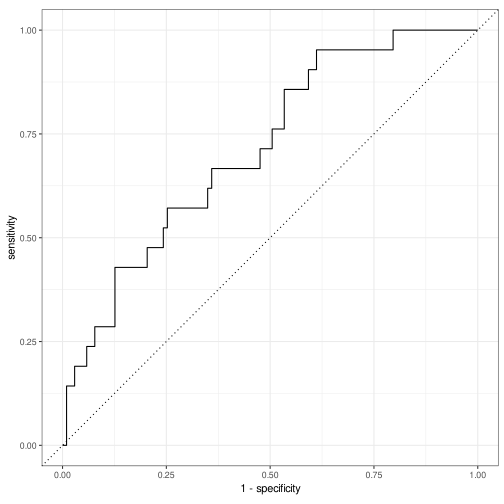
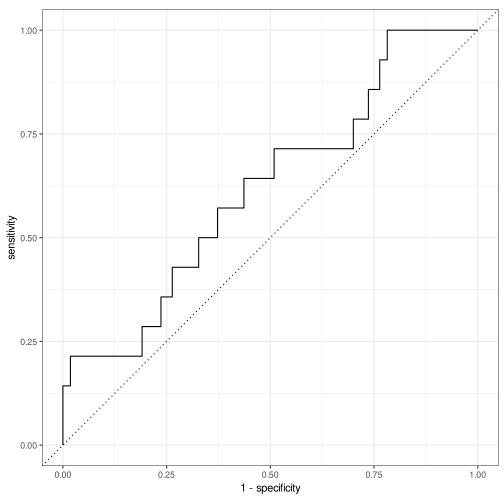
Random tree markdown updated, now includes variable importance
* added accuracy to the set of metrics
* made the rmd reproducible (set.seed)

diff --git a/random_forest.md b/random_forest.md
@@ -1,10 +1,3 @@
----
-title: Random forests
-author: Marc Härkönen
-output:
-  pdf_document:
-    latex_engine: xelatex
----
 # Random forests
 
 ## Data business
@@ -17,7 +10,9 @@ library(tidymodels)
 library(feather)
 library(magrittr)
 library(skimr)
+library(vip)
 per <- read_feather("data/simulation_data/all_persons.feather")
+set.seed(123)
 ```
 
 Compute some summary statistic for each client.
@@ -33,7 +28,7 @@ clients <-
     avg_qx = mean(qx),
     avg_age = mean(Age),
     per_male = sum(Sex == "Male") / size,
-    per_blue_collar = sum(collar == "Blue") / size,
+    per_blue_collar = sum(collar == "blue") / size,
     expected = sum(qx * FaceAmt),
     actual_2020 = sum(FaceAmt[year == 2020], na.rm = TRUE),
     ae_2020 = actual_2020 / expected,
@@ -157,7 +152,7 @@ Table: Data summary
 |avg_qx          |         0|             1|         0.00|         0.00|       0.00|         0.00|         0.00|         0.00| 0.000000e+00|▁▇▇▂▁ |
 |avg_age         |         0|             1|        41.56|         2.05|      37.68|        40.11|        41.11|        42.49| 4.865000e+01|▃▇▃▁▁ |
 |per_male        |         0|             1|         0.57|         0.10|       0.22|         0.50|         0.57|         0.64| 8.900000e-01|▁▃▇▅▁ |
-|per_blue_collar |         0|             1|         0.00|         0.00|       0.00|         0.00|         0.00|         0.00| 0.000000e+00|▁▁▇▁▁ |
+|per_blue_collar |         0|             1|         1.00|         0.00|       1.00|         1.00|         1.00|         1.00| 1.000000e+00|▁▁▇▁▁ |
 |expected        |         0|             1|   1075634.02|   1054075.28|   11604.50|    353219.92|    832197.99|   1436637.06| 1.189955e+07|▇▁▁▁▁ |
 |actual_2020     |         0|             1|  15378942.63|  44643400.61|       0.00|   1962875.00|   4556125.00|  13950250.00| 5.232112e+08|▇▁▁▁▁ |
 |nohs            |         0|             1|        11.16|         3.78|       0.00|         8.44|        10.78|        12.88| 2.165000e+01|▁▅▇▂▂ |
@@ -195,7 +190,7 @@ We use the ranger engine for our random forest. We could tune the paramters as w
 ranger_spec <-
   rand_forest(trees = 1000) %>%
   set_mode("classification") %>%
-  set_engine("ranger")
+  set_engine("ranger", num.threads = 8, importance = "impurity", seed = 123)
 ```
 
 Wrap the recipe and model into a workflow
@@ -222,8 +217,8 @@ clients_test %>% count(adverse)
 ## # A tibble: 2 x 2
 ##   adverse     n
 ##   <fct>   <int>
-## 1 FALSE      21
-## 2 TRUE      103
+## 1 FALSE      14
+## 2 TRUE      110
 ```
 
 ```r
@@ -235,8 +230,8 @@ clients_train %>% count(adverse)
 ## # A tibble: 2 x 2
 ##   adverse     n
 ##   <fct>   <int>
-## 1 FALSE      25
-## 2 TRUE      346
+## 1 FALSE      32
+## 2 TRUE      339
 ```
 
 Train the workflow
@@ -266,9 +261,10 @@ predictions %>%
 ```
 ##           Truth
 ## Prediction FALSE TRUE
-##      FALSE     0    1
-##      TRUE     21  102
+##      FALSE     1    0
+##      TRUE     13  110
 ```
+
 It looks like the the model performs well, but it's basically predicting that all companies will have adverse deaths.
 
 This is another way to automate computation of metrics
@@ -288,10 +284,10 @@ ranger_last_fit %>% collect_metrics()
 ## # A tibble: 4 x 4
 ##   .metric .estimator .estimate .config             
 ##   <chr>   <chr>          <dbl> <chr>               
-## 1 sens    binary       0       Preprocessor1_Model1
-## 2 spec    binary       0.990   Preprocessor1_Model1
-## 3 j_index binary      -0.00971 Preprocessor1_Model1
-## 4 roc_auc binary       0.844   Preprocessor1_Model1
+## 1 sens    binary        0.0714 Preprocessor1_Model1
+## 2 spec    binary        1      Preprocessor1_Model1
+## 3 j_index binary        0.0714 Preprocessor1_Model1
+## 4 roc_auc binary        0.910  Preprocessor1_Model1
 ```
 
 ```r
@@ -331,10 +327,10 @@ subsample_last_fit %>% collect_metrics()
 ## # A tibble: 4 x 4
 ##   .metric .estimator .estimate .config             
 ##   <chr>   <chr>          <dbl> <chr>               
-## 1 sens    binary         0.333 Preprocessor1_Model1
-## 2 spec    binary         0.874 Preprocessor1_Model1
-## 3 j_index binary         0.207 Preprocessor1_Model1
-## 4 roc_auc binary         0.713 Preprocessor1_Model1
+## 1 sens    binary         0.429 Preprocessor1_Model1
+## 2 spec    binary         0.709 Preprocessor1_Model1
+## 3 j_index binary         0.138 Preprocessor1_Model1
+## 4 roc_auc binary         0.619 Preprocessor1_Model1
 ```
 
 ```r
@@ -360,6 +356,7 @@ clients$ae_2020 %>% summary()
 ##    Min. 1st Qu.  Median    Mean 3rd Qu.    Max. 
 ##   0.000   2.976   6.460  15.036  14.034 232.897
 ```
+
 Let's say that a client experiences adverse deaths if AE > 3, which is about the 1st quartile
 
 ```r
@@ -388,10 +385,10 @@ ranger_last_fit %>% collect_metrics()
 ## # A tibble: 4 x 4
 ##   .metric .estimator .estimate .config             
 ##   <chr>   <chr>          <dbl> <chr>               
-## 1 sens    binary         0.606 Preprocessor1_Model1
-## 2 spec    binary         0.912 Preprocessor1_Model1
-## 3 j_index binary         0.518 Preprocessor1_Model1
-## 4 roc_auc binary         0.806 Preprocessor1_Model1
+## 1 sens    binary         0.536 Preprocessor1_Model1
+## 2 spec    binary         0.938 Preprocessor1_Model1
+## 3 j_index binary         0.473 Preprocessor1_Model1
+## 4 roc_auc binary         0.872 Preprocessor1_Model1
 ```
 
 ```r
@@ -402,6 +399,7 @@ ranger_last_fit %>%
 ```
 
 ![plot of chunk unnamed-chunk-18](figure/unnamed-chunk-18-1.png)
+
 Better!
 
 Can we tune hyperparameters to get even better results? Let's check
@@ -420,17 +418,16 @@ tune_resamples <-
   vfold_cv(training(tune_split))
 
 param_grid <-
-  tune_workflow %>%
-  parameters() %>%
-  finalize(training(tune_split)) %>%
-  grid_regular(levels = 5)
+  grid_regular(mtry(c(1,23)),
+               min_n(),
+               levels = 5)
 
 tune_res <-
   tune_workflow %>%
   tune_grid(
     resamples = tune_resamples,
     grid = param_grid,
-    metrics = metric_set(sens, spec, roc_auc, j_index)
+    metrics = metric_set(sens, spec, roc_auc, j_index, accuracy)
   )
 
 autoplot(tune_res)
@@ -438,10 +435,10 @@ autoplot(tune_res)
 
 ![plot of chunk unnamed-chunk-19](figure/unnamed-chunk-19-1.png)
 
-For me, the best is mtry = 14, min_n = 11.
+I chose mtry = 17, min_n = 2.
 
 ```r
-best <- tibble(mtry = 14, min_n = 11)
+best <- tibble(mtry = 17, min_n = 2)
 final_wf <-
   tune_workflow %>%
   finalize_workflow(best)
@@ -450,7 +447,7 @@ final_wf_fit <-
   final_wf %>%
   last_fit(
     tune_split,
-    metrics = metric_set(sens, spec, roc_auc, j_index)
+    metrics = metric_set(sens, spec, roc_auc, j_index, accuracy)
     )
 
 final_wf_fit %>%
@@ -458,12 +455,36 @@ final_wf_fit %>%
 ```
 
 ```
-## # A tibble: 4 x 4
-##   .metric .estimator .estimate .config             
-##   <chr>   <chr>          <dbl> <chr>               
-## 1 sens    binary         0.618 Preprocessor1_Model1
-## 2 spec    binary         0.956 Preprocessor1_Model1
-## 3 j_index binary         0.573 Preprocessor1_Model1
-## 4 roc_auc binary         0.888 Preprocessor1_Model1
+## # A tibble: 5 x 4
+##   .metric  .estimator .estimate .config             
+##   <chr>    <chr>          <dbl> <chr>               
+## 1 sens     binary         0.529 Preprocessor1_Model1
+## 2 spec     binary         0.978 Preprocessor1_Model1
+## 3 j_index  binary         0.507 Preprocessor1_Model1
+## 4 accuracy binary         0.855 Preprocessor1_Model1
+## 5 roc_auc  binary         0.845 Preprocessor1_Model1
 ```
+
+```r
+final_wf_fit %>%
+  collect_predictions() %>%
+  roc_curve(adverse, .pred_FALSE) %>%
+  autoplot()
+```
+
+![plot of chunk unnamed-chunk-20](figure/unnamed-chunk-20-1.png)
+
 Cool stuff. How does this compare to logistic regression by month???
+
+We can also check variable importance
+
+```r
+final_wf_fit %>%
+  pluck(".workflow", 1) %>%
+  pull_workflow_fit() %>%
+  vip(num_features = 30)
+```
+
+![plot of chunk unnamed-chunk-21](figure/unnamed-chunk-21-1.png)
+
+Looks like population is the overwhelming winner. Next unemployment percentage, non-highschool graduate percentage and population density.
